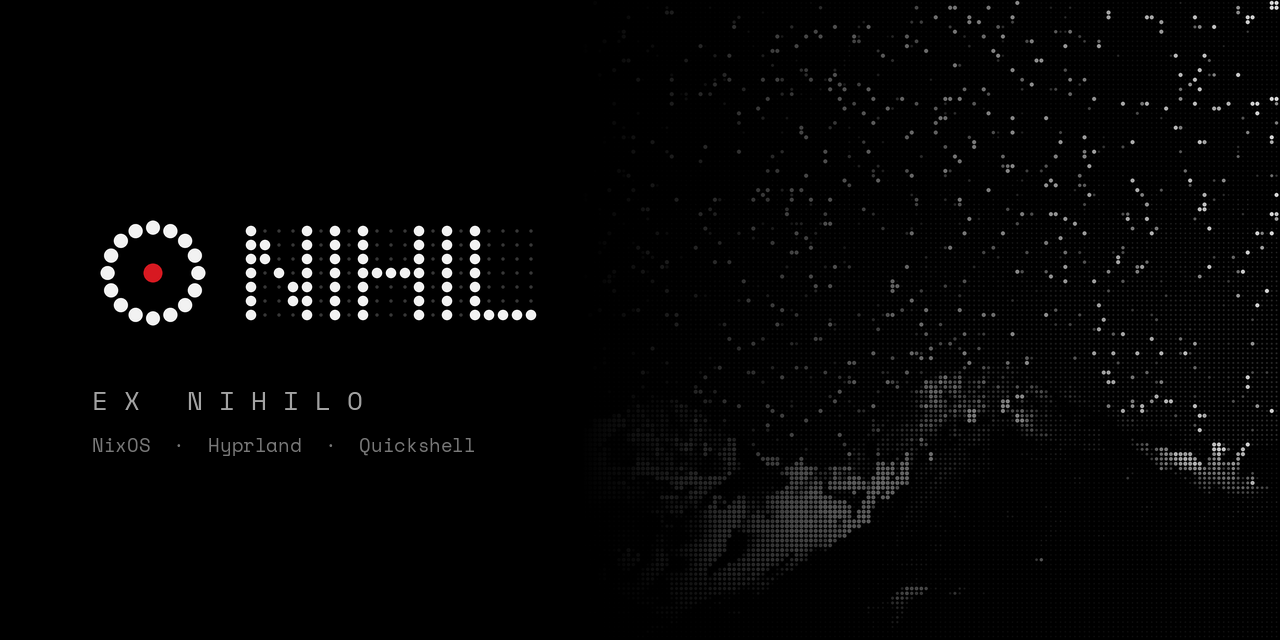
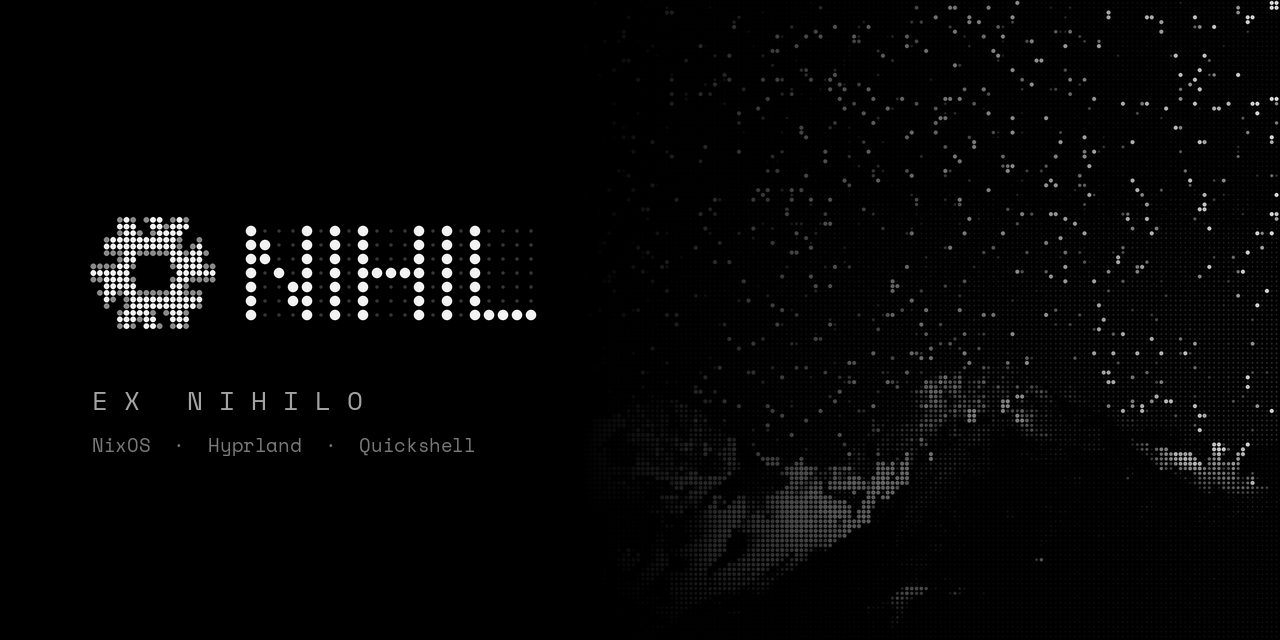
Brand: the social preview with the snowflake
GitHub's preview and the site's og.png still had the ring around a red
LED. tools/brand.py could not make them again: the snowflake has dim
LEDs, and the social image drew with a palette that had no colour for
them. Every drawing now takes the whole dark or light palette, and both
images are made again with the night render and the site's Space Mono,
as the header now says how.

Changed region(s): [[0.0625, 0.3125, 0.1875, 0.5312]]

diff --git a/tools/brand.py b/tools/brand.py
@@ -8,10 +8,14 @@
 #   nilo     Nilo's face for its account (its commits' co-author): the two
 #            eyes of home/shell/nilo/Eyes.qml, open, on black
 #
-#   python3 tools/brand.py [--wallpaper PNG] [--mono-font TTF]
+#   python3 tools/brand.py [--wallpaper PNG] [--mono-font FONT]
 # Writes assets/brand/* and the favicons and images of the site in docs/,
 # including a preview of the boot splash made from its real frames.
-# Needs Pillow; the social image also uses the wallpaper render and Space Mono.
+# Needs Pillow. The social image (GitHub's preview and the site's og.png)
+# also takes a wallpaper render and Space Mono, the site's own will do:
+#   python3 theme/dotmatrix.py wallpapers/night.jpg /tmp/night --output eDP-1:1920x1200:9
+#   python3 tools/brand.py --wallpaper /tmp/night/eDP-1.png \
+#       --mono-font docs/assets/fonts/space-mono-400.woff
 
 import argparse
 import os
@@ -20,6 +24,11 @@ from PIL import Image, ImageDraw, ImageFont
 
 ROOT = os.path.join(os.path.dirname(os.path.abspath(__file__)), "..")
 INK, VOID, SIGNAL, UNLIT_DARK, UNLIT_LIGHT, DARK_INK = "#F2F2F2", "#000000", "#D71921", "#333333", "#D4D4D4", "#0E0E0E"
+
+# The colour of each kind of circle, on black and on white. Every drawing
+# takes one of these whole: the snowflake has dim LEDs, the word unlit ones.
+DARK = {"ink": INK, "dim": "#8A8A8A", "signal": SIGNAL, "unlit": UNLIT_DARK}
+LIGHT = {"ink": DARK_INK, "dim": "#7A7A7A", "signal": SIGNAL, "unlit": UNLIT_LIGHT}
 
 FACE = {
     "N": ["#...#", "##..#", "##..#", "#.#.#", "#..##", "#..##", "#...#"],
@@ -136,7 +145,7 @@ def social(path, wallpaper, mono_font):
         mask = Image.linear_gradient("L").rotate(90).resize((700, H))  # fades into the black on the left
         img.paste(crop, (W - 700, 0), mask)
     circles, width, height = logo_circles(pitch=14)
-    logo = raster(circles, width, height, {"ink": INK, "signal": SIGNAL, "unlit": UNLIT_DARK}, scale=1)
+    logo = raster(circles, width, height, DARK, scale=1)
     img.paste(logo, (90, 210), logo)
     draw = ImageDraw.Draw(img)
     if mono_font and os.path.exists(mono_font):
@@ -180,28 +189,25 @@ def main():
     for d in (brand, site):
         os.makedirs(d, exist_ok=True)
 
-    dark = {"ink": INK, "dim": "#8A8A8A", "signal": SIGNAL, "unlit": UNLIT_DARK}
-    light = {"ink": DARK_INK, "dim": "#7A7A7A", "signal": SIGNAL, "unlit": UNLIT_LIGHT}
-
     circles, width, height = logo_circles()
-    for name, colours in (("nihil-logo-dark", dark), ("nihil-logo-light", light)):
+    for name, colours in (("nihil-logo-dark", DARK), ("nihil-logo-light", LIGHT)):
         text = svg(circles, width, height, colours)
         for d in (brand, site):
             open(os.path.join(d, f"{name}.svg"), "w").write(text)
 
     mark = snowflake(45, 45, 90)
-    open(os.path.join(brand, "nihil-mark.svg"), "w").write(svg(mark, 90, 90, dark))
+    open(os.path.join(brand, "nihil-mark.svg"), "w").write(svg(mark, 90, 90, DARK))
 
     face, picture = nilo_avatar()
     open(os.path.join(brand, "nilo-avatar.svg"), "w").write(face)
     picture.save(os.path.join(brand, "nilo-avatar.png"), optimize=True)
-    open(os.path.join(brand, "nihil-mark-light.svg"), "w").write(svg(mark, 90, 90, light))
+    open(os.path.join(brand, "nihil-mark-light.svg"), "w").write(svg(mark, 90, 90, LIGHT))
 
     fav = favicon_circles()
-    open(os.path.join(docs, "favicon.svg"), "w").write(svg(fav, 32, 32, dark, background=VOID, radius=7))
-    icon = raster(fav, 32, 32, dark, scale=8, background=VOID, radius=7)  # 256 px master
+    open(os.path.join(docs, "favicon.svg"), "w").write(svg(fav, 32, 32, DARK, background=VOID, radius=7))
+    icon = raster(fav, 32, 32, DARK, scale=8, background=VOID, radius=7)  # 256 px master
     icon.save(os.path.join(docs, "favicon.ico"), sizes=[(16, 16), (32, 32), (48, 48)])
-    apple = raster(fav, 32, 32, dark, scale=180 / 32, background=VOID, radius=0)
+    apple = raster(fav, 32, 32, DARK, scale=180 / 32, background=VOID, radius=0)
     apple.convert("RGB").save(os.path.join(docs, "apple-touch-icon.png"), optimize=True)
 
     for path in (os.path.join(brand, "social-preview.png"), os.path.join(site, "og.png")):
